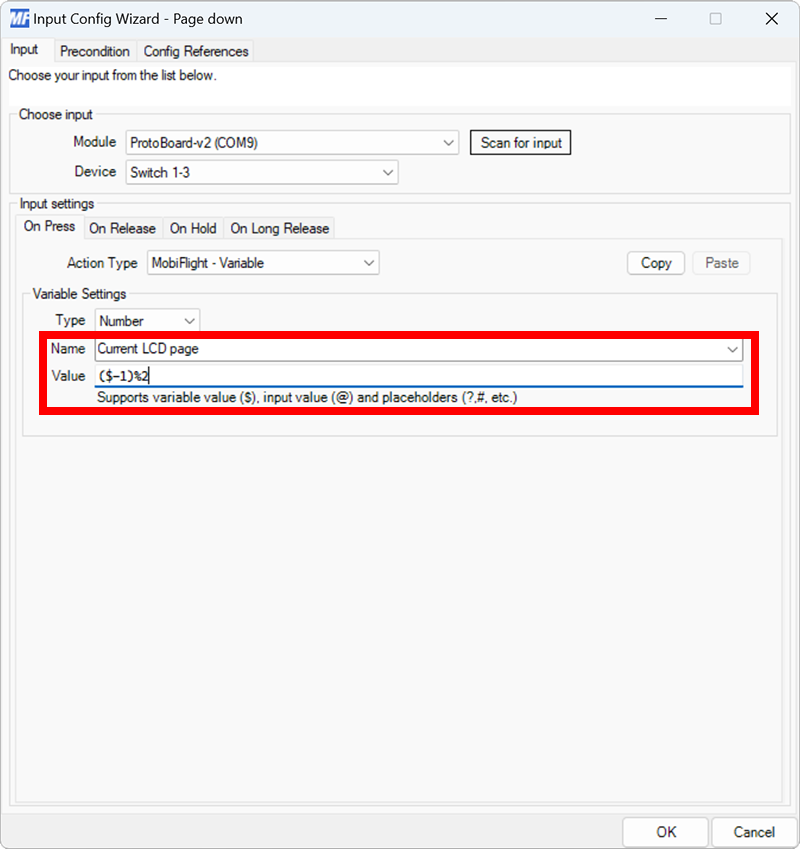
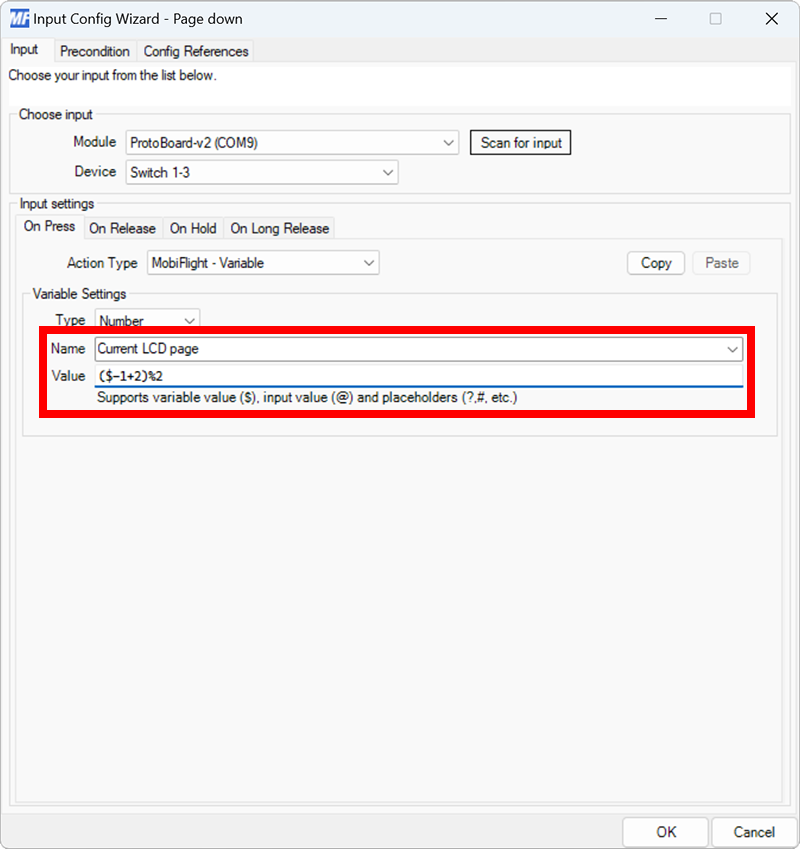
Add everything else

Changed region(s): [[0.0312, 0.3675, 0.9688, 0.49]]

diff --git a/content/guides/lcd-with-preconditions/_index.md b/content/guides/lcd-with-preconditions/_index.md
@@ -4,10 +4,13 @@ description: Step-by-step guide to using preconditions to show multiple pages of
 ogimage: card-images/devices/lcd-16x2.png
 ---
 
+<!-- markdownlint thinks <none>, which is a value in MobiFlight UI, is inline HTML, so disable the rule in this file. -->
+<!-- markdownlint-disable MD033 -->
+
 MobiFlight preconditions, when combined with two buttons and an LCD, can be used to page between different screens of content on the display. This tutorial demonstrates how to use two buttons to page up and down through two pages, showing COM1 frequencies and COM2 frequencies for a Cessna 172 on an LCD.
 
 > [!NOTE]
-> This guide assumes the buttons and LCD are already added as MobiFlight devices following the [button](/devices/button-switch/) and [encoder](/devices/encoder/) guides. It also assumes basic familiarity with creating MobiFlight input configurations.
+> This guide assumes the buttons and LCD are already added as MobiFlight devices, following the [button](/devices/button-switch/) and [encoder](/devices/encoder/) guides. It also assumes basic familiarity with creating MobiFlight input configurations.
 
 {{% steps %}}
 
@@ -19,15 +22,21 @@ In the **Value** field, enter `($+1)%2`. This will cause the value of the variab
 
 {{< screenshot image="input-variable-page-up.png" title="Screenshot of an input configuration mapped to a button, configured as a MobiFlight - Variable action type." >}}
 
+> [!TIP]
+> The **Value** results in the variable value alternating between `0` and `1`, supporting two display pages. To increase the number of display pages, change the **2** to the number of desired pages. For example, `($+1)%4` will support four pages.
+
 ### Create an input configuration for the page down button
 
-Repeat the prior step for the second button, naming the configuration **Page down**. The variable name is the same, **Current LCD page**. The **Value** is `($-1)%2`.
+Repeat the prior step for the second button, naming the configuration **Page down**. The variable name is the same, **Current LCD page**. The **Value** is `($-1+2)%2`.
 
 {{< screenshot image="input-variable-page-down.png" title="Screenshot of an input configuration mapped to a button, configured as a MobiFlight - Variable action type." >}}
 
+> [!TIP]
+> The **Value** results in the variable value alternating between `0` and `1`, supporting two display pages. To increase the number of display pages, change **2** to the number of desired pages. For example, `($-1+4)%4` will support four pages.
+
 ### Create output configurations for COM frequencies
 
-On the **Output** tab of the main MobiFlight window create entries for each of the four COM frequencies to display:
+On the **Output** tab of the main MobiFlight window, create entries for each of the four COM frequencies to display:
 
 | Description  | Preset category             | Preset name                   | Index |
 | ------------ | --------------------------- | ----------------------------- | ----- |
@@ -38,8 +47,10 @@ On the **Output** tab of the main MobiFlight window create entries for each of t
 
 The output configurations are not mapped to any output device. Only the **Sim Variable** tab values need to be set.
 
+{{< screenshot image="output-configs.png" title="Screenshot of the output tab of the main MobiFlight window with four output configurations created." >}}
+
 > [!TIP]
-> For a more in-depth walkthrough of how to display multiple values on an LCD see the [advanced LCD configuration guide](/devices/lcd/advanced-configuration/).
+> For a more in-depth walkthrough of how to display multiple values on an LCD, see the [advanced LCD configuration guide](/devices/lcd/advanced-configuration/).
 
 ### Create an output configuration to display COM1 frequencies
 
@@ -47,12 +58,52 @@ Create a new output configuration named **COM1 display**. On the **Modify** tab 
 
 {{< screenshot image="com1-config-references.png" title="Screenshot of the output configuration dialog with the Modify tab selected and references added to COM1 active and COM1 standby." >}}
 
-On the **Display** tab use the **Module** and **Use type of** dropdowns to select your connected board and the **LcdDisplay** device type. Select the LCD from the **Display** dropdown.
+On the **Display** tab, use the **Module** and **Use type of** dropdowns to select your connected board and the **LcdDisplay** device type. Select the LCD from the **Display** dropdown.
 
 Format the display output in the **Text** section using the placeholder symbols from the **Modify** tab config references.
 
-{{< screenshot image="com1-display.png" title="Screenshot of the output configuration dialog with the Display tab selected and the Text field filled with COM1: ###.###, STBY: !!!.!!!" >}}
+{{< screenshot image="com1-display.png" title="Screenshot of the output configuration dialog with the Display tab selected and the Text field filled with COM1: ###.###, STBY: !!!.!!!." >}}
 
-### Add a pre-condition for COM1 display
+### Add a precondition for COM1 display
+
+<!-- markdownlint-disable-next-line MD033 -->
+
+On the **Precondition** tab for the **COM1 display** config, click on **<none>** and change **Use type of** to **MobiFlight Variable**.
+
+The **Current LCD page** variable created earlier should automatically be selected in the **Choose variable** dropdown. Use `0` for the **If current value is** comparison.
+
+This will ensure the **COM1 display** output configuration is only active when the **Current LCD page** variable is set to `0`.
+
+{{< screenshot image="com1-precondition.png" title="Screenshot of the Precondition tab with the Current LCD page variable selected and the precondition set to = 0." >}}
+
+### Create an output configuration to display COM2 frequencies
+
+Create a new output configuration named **COM2 display**. On the **Modify** tab click the **Add reference** button to add references to the **COM2 active** and **COM2 standby** configurations created in the prior step.
+
+{{< screenshot image="com2-config-references.png" title="Screenshot of the output configuration dialog with the Modify tab selected and references added to COM2 active and COM2 standby." >}}
+
+On the **Display** tab, use the **Module** and **Use type of** dropdowns to select your connected board and the **LcdDisplay** device type. Select the LCD from the **Display** dropdown.
+
+Format the display output in the **Text** section using the placeholder symbols from the **Modify** tab config references.
+
+{{< screenshot image="com2-display.png" title="Screenshot of the output configuration dialog with the Display tab selected and the Text field filled with COM2: ###.###, STBY: !!!.!!!." >}}
+
+### Add a precondition for COM2 display
+
+On the **Precondition** tab for the **COM2 display** config, click on **<none>** and change **Use type of** to **MobiFlight Variable**.
+
+The **Current LCD page** variable created earlier should automatically be selected in the **Choose variable** dropdown. Use `1` for the **If current value is** comparison.
+
+This will ensure the **COM2 display** output configuration is only active when the **Current LCD page** variable is set to `1`.
+
+{{< screenshot image="com2-precondition.png" title="Screenshot of the Precondition tab with the Current LCD page variable selected and the precondition set to = 1." >}}
+
+### Try it out
+
+Spawn an airplane in Microsoft Flight Simulator. Make sure the MobiFlight **Run** button is clicked in the toolbar. The LCD should display the active and standby frequencies for COM1. Pressing the **Page up** and **Page down** buttons should cycle through the COM1 and COM2 display pages.
+
+MobiFlight will indicate which output configuration is disabled by the precondition by showing a red exclamation point at the start of the row. In the following screenshot, **COM1 display** is active and **COM2 display** is disabled.
+
+{{< screenshot image="com2-disabled.png" title="Screenshot of the main MobiFlight window output tab with a red exclamation mark next to the COM2 display row." >}}
 
 {{% /steps %}}
